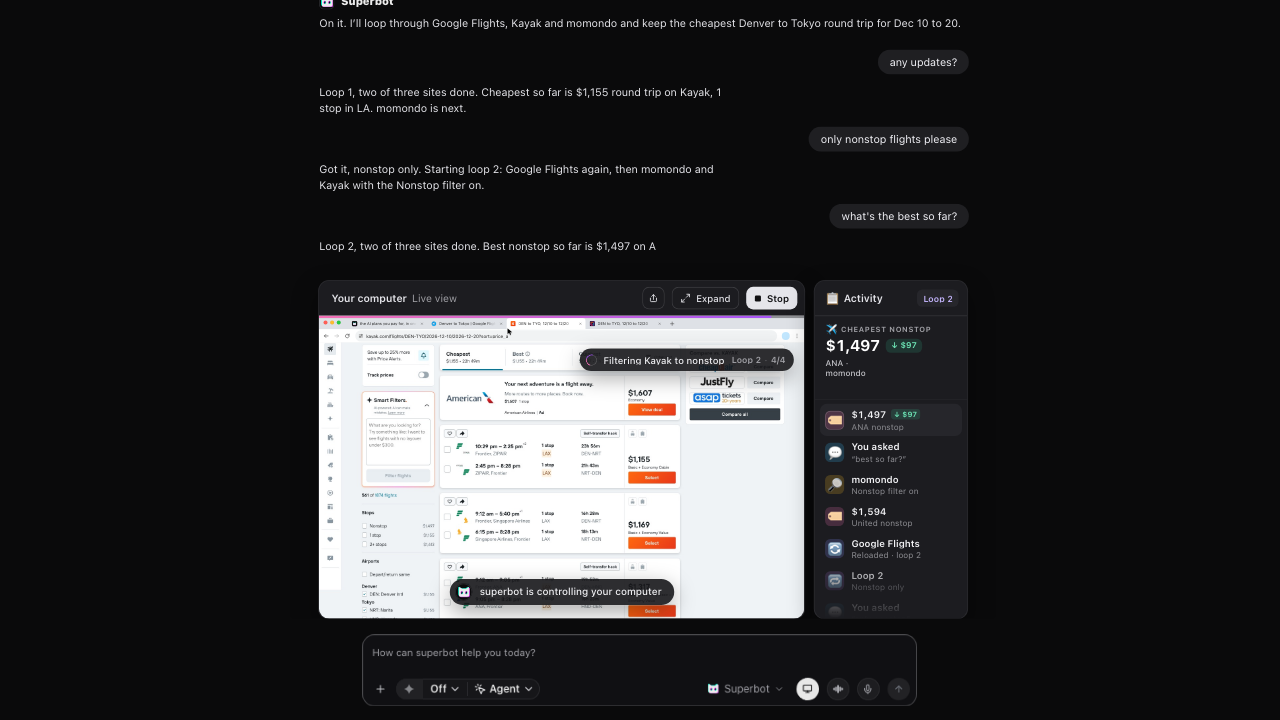
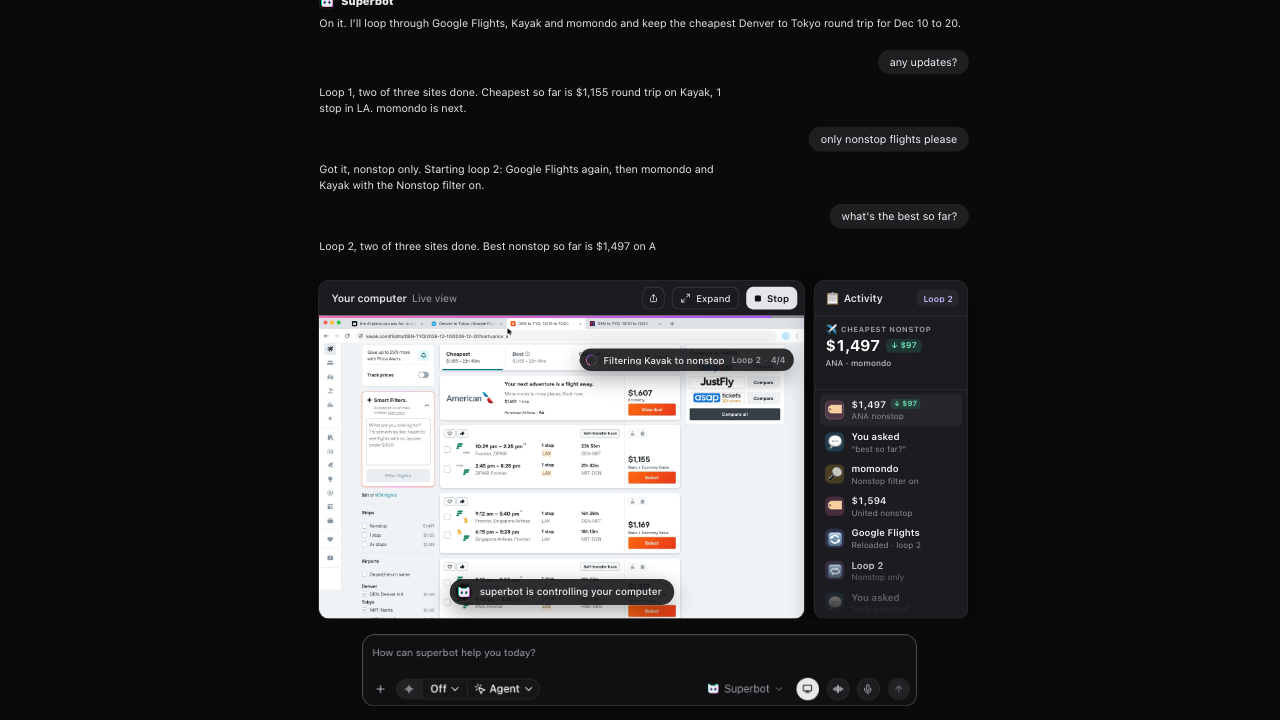
Activity-rail loop cuts (5204eced): the rail's cheapest-fare line keeps the rail's width
In the news-rail look the source line under the fare (ANA · momondo) broke onto two lines: its cell took the measured
width of a line that may wrap, which narrowed it a little more every frame. In the rail it now takes the rail's width.
ccact.5204eced.css?v=3, ccact.5204eced.js?v=3, chat.9b47fc30.js?v=75, tabs.9b47fc30.js?v=67, timeline.9b47fc30.js?v=69;
thumbs re-rendered.

Changed region(s): [[0.625, 0.55, 0.7188, 0.8556], [0.6562, 0.4889, 0.6875, 0.5194]]

diff --git a/animations/gemini-muse-meme-superbot-6fbc38f8/scenes/tabs-assets/ccact.5204eced.css b/animations/gemini-muse-meme-superbot-6fbc38f8/scenes/tabs-assets/ccact.5204eced.css
@@ -82,7 +82,9 @@
 #s-tabs .sbsite .hub .cxa-rl { display: flex; height: 20px; white-space: nowrap; align-items: center; padding: 0 7px; border-radius: 6px; background: #26262b; font: 600 10px/1 var(--ui); font-variant-numeric: tabular-nums; color: #c4b5fd; }
 #s-tabs .sbsite .hub .cxa-rnews { flex: none; overflow: hidden; opacity: 0; box-shadow: 0 1px 0 #2a2a2e; }
 #s-tabs .sbsite .hub .cxa-in-rail { padding: 11px 12px 12px; }
-#s-tabs .sbsite .hub .cxa-in-rail .cxa-sub { white-space: normal; }
+/* in the narrow rail the source line may wrap: it takes the rail's width, not the running line's (a measured width of a
+   wrapping line would narrow it a little more every frame) */
+#s-tabs .sbsite .hub .cxa-in-rail .cxa-sub { width: auto !important; max-width: 100%; white-space: normal; }
 #s-tabs .sbsite .hub .cxa-acts { position: relative; flex: 1; min-height: 0; display: flex; flex-direction: column; padding: 6px; overflow: hidden; -webkit-mask: linear-gradient(#000 72%, transparent); mask: linear-gradient(#000 72%, transparent); }
 #s-tabs .sbsite .hub .cxa-act { flex: none; display: flex; align-items: center; gap: 8px; box-sizing: border-box; padding: 0 6px; overflow: hidden; border-radius: 8px; }
 #s-tabs .sbsite .hub .cxa-act > * { margin: 5px 0; }

diff --git a/animations/gemini-muse-meme-superbot-6fbc38f8/scenes/tabs-assets/chat.9b47fc30.js b/animations/gemini-muse-meme-superbot-6fbc38f8/scenes/tabs-assets/chat.9b47fc30.js
@@ -27,7 +27,7 @@ import { progressEdge, progressPill, progressSteps, EXTRA as PROGRESS_EXTRA } fr
 import { progressA, progressB, progressC, LEN as PROGRESS_LEN } from './beats/progress.81e9d268.js?v=1';
 import { looks as flightLoops, ASK as FLIGHT_ASK, TYPE_CPS as FLIGHT_CPS, LEN as FLIGHT_LEN } from './beats/flightloop.97eee3b5.js?v=1';
 import { CUTS as FLIGHTS_CUTS, ASK as FLIGHTS_ASK, TYPE_CPS as FLIGHTS_CPS, LEN as FLIGHTS_LEN } from './beats/flights.92b9b0b0.js?v=1';
-import { CUTS as CCACT_CUTS, ASK as CCACT_ASK, TYPE_CPS as CCACT_CPS, LEN as CCACT_LEN } from './beats/ccact.5204eced.js?v=2';
+import { CUTS as CCACT_CUTS, ASK as CCACT_ASK, TYPE_CPS as CCACT_CPS, LEN as CCACT_LEN } from './beats/ccact.5204eced.js?v=3';
 import multicat, { bare as multicatBare, bareDog as multidogBare, TYPE_CPS as MULTICAT_CPS, LEN as MULTICAT_LEN, BARE_LEN as MULTICAT_BARE_LEN, DOG_BARE_LEN as MULTIDOG_BARE_LEN } from './beats/multicat.516afb1a.js?v=16';
 import multidog, { TYPE_CPS as MULTIDOG_CPS, LEN as MULTIDOG_LEN } from './beats/multidog.7b007b09.js?v=2';
 import college, { TYPE_CPS as COLLEGE_CPS, LEN as COLLEGE_LEN } from './beats/college.057e3dda.js?v=2';

diff --git a/animations/gemini-muse-meme-superbot-6fbc38f8/timeline.9b47fc30.js b/animations/gemini-muse-meme-superbot-6fbc38f8/timeline.9b47fc30.js
@@ -3,10 +3,10 @@
 // a 60fps quantised clock. The one scene (scenes/tabs.js) plays once and holds its last frame: no loop. Space after
 // the end replays it from the start.
 import * as lib from './lib.9b47fc30.js';
-import tabs from './scenes/tabs.9b47fc30.js?v=66';
+import tabs from './scenes/tabs.9b47fc30.js?v=67';
 import { settled } from './loads.9e82faf1.js';
 // the same module instance the tabs scene uses (the full URL, query included, keys an instance)
-import { BEATS, typeShift } from './scenes/tabs-assets/chat.9b47fc30.js?v=74';
+import { BEATS, typeShift } from './scenes/tabs-assets/chat.9b47fc30.js?v=75';
 import { variant } from './variant.9e82faf1.js?v=3';
 
 const { seg } = lib;

diff --git a/animations/gemini-muse-meme-superbot-6fbc38f8/index.html b/animations/gemini-muse-meme-superbot-6fbc38f8/index.html
@@ -111,7 +111,7 @@ if (HOLD) document.getElementById('hint').style.display = 'none';
   });
 })();
 </script>
-<script type="module" src="timeline.9b47fc30.js?v=68" onload="bootSpotLoaded()" onerror="bootFailed()"></script>
+<script type="module" src="timeline.9b47fc30.js?v=69" onload="bootSpotLoaded()" onerror="bootFailed()"></script>
 <script type="module" src="variant-select.9e82faf1.js?v=28" onload="bootLoaded()" onerror="bootControlsFailed()"></script>
 <!-- v14 on the Music pill: its score and its music pill; outside the boot count, so a failed score never holds the spot -->
 <script type="module" src="music.ff209337.js?v=2"></script>

diff --git a/animations/gemini-muse-meme-superbot-6fbc38f8/scenes/tabs.9b47fc30.js b/animations/gemini-muse-meme-superbot-6fbc38f8/scenes/tabs.9b47fc30.js
@@ -5,7 +5,7 @@
 // (tabs-assets/chat.js). render(lt) is a pure function of local time. The scene keeps the id "tabs" so the hub's
 // generated stylesheets (scoped under #s-tabs) apply unchanged.
 import { hubMarkup } from './tabs-assets/hub-markup.9b47fc30.js';
-import { mountChat, renderChat, CHAT_T0, chatEnd, sendAt } from './tabs-assets/chat.9b47fc30.js?v=74';
+import { mountChat, renderChat, CHAT_T0, chatEnd, sendAt } from './tabs-assets/chat.9b47fc30.js?v=75';
 import { lerp, seg, outCubic, inOutCubic } from '../lib.9b47fc30.js';
 import { variant } from '../variant.9e82faf1.js?v=3';
 

diff --git a/animations/gemini-muse-meme-superbot-6fbc38f8/scenes/tabs-assets/beats/ccact.5204eced.js b/animations/gemini-muse-meme-superbot-6fbc38f8/scenes/tabs-assets/beats/ccact.5204eced.js
@@ -41,7 +41,7 @@ const SHEETS = [
   new URL('../computer.ba3976b6.css?v=11', import.meta.url).href,
   new URL('../computer-progress.a05be571.css?v=1', import.meta.url).href,
   new URL('../flights.92b9b0b0.css?v=1', import.meta.url).href,
-  new URL('../ccact.5204eced.css?v=2', import.meta.url).href,
+  new URL('../ccact.5204eced.css?v=3', import.meta.url).href,
 ];
 
 // the sheets this cut builds on are loaded by their own beats when they build; load any not there yet, then this one's
